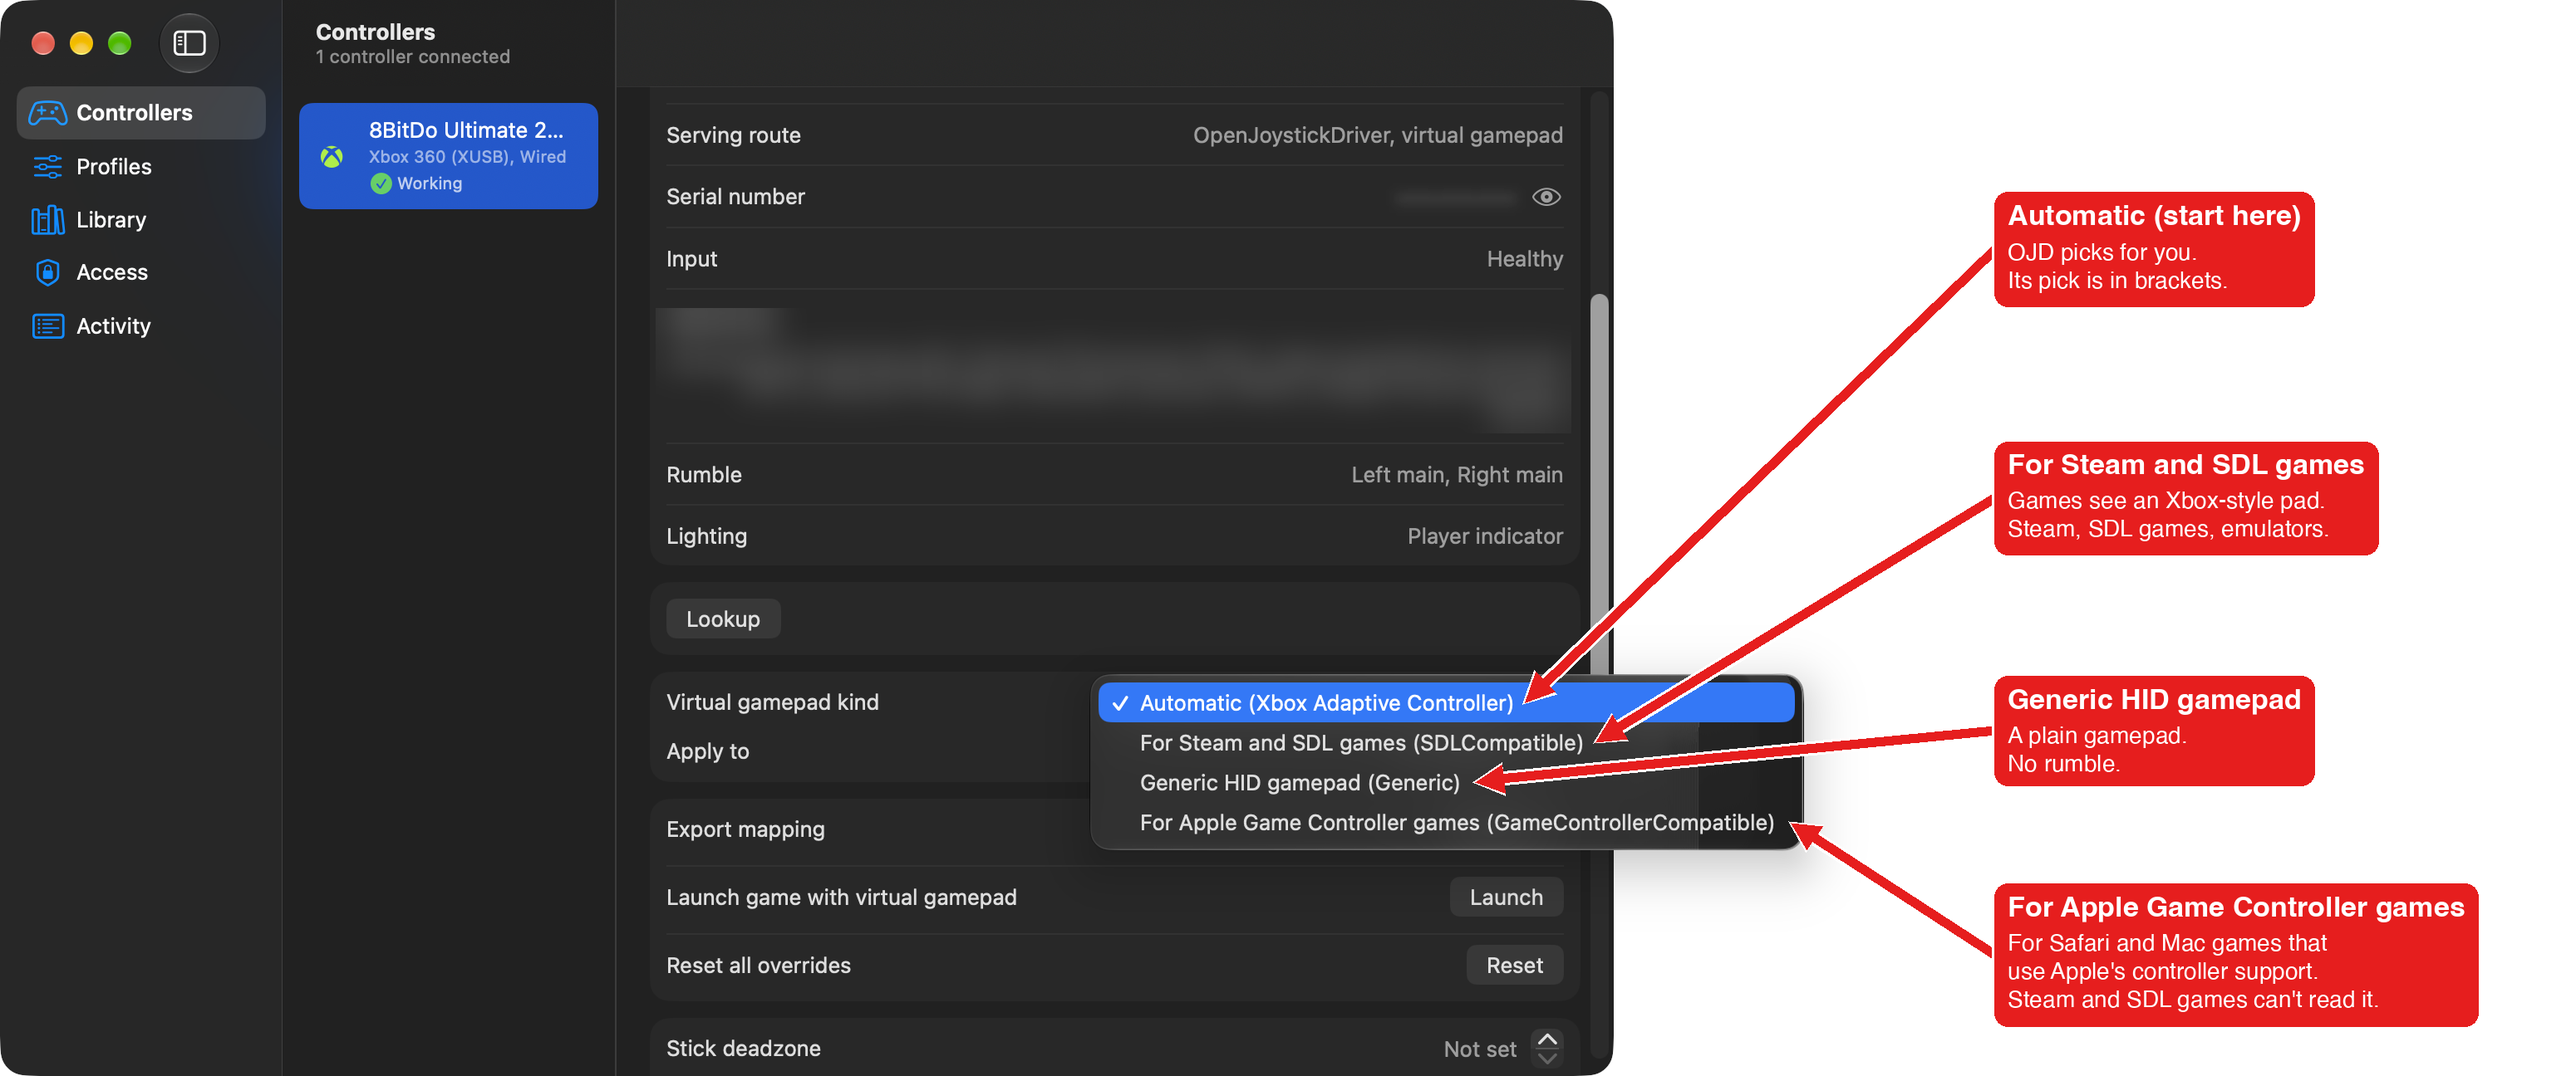
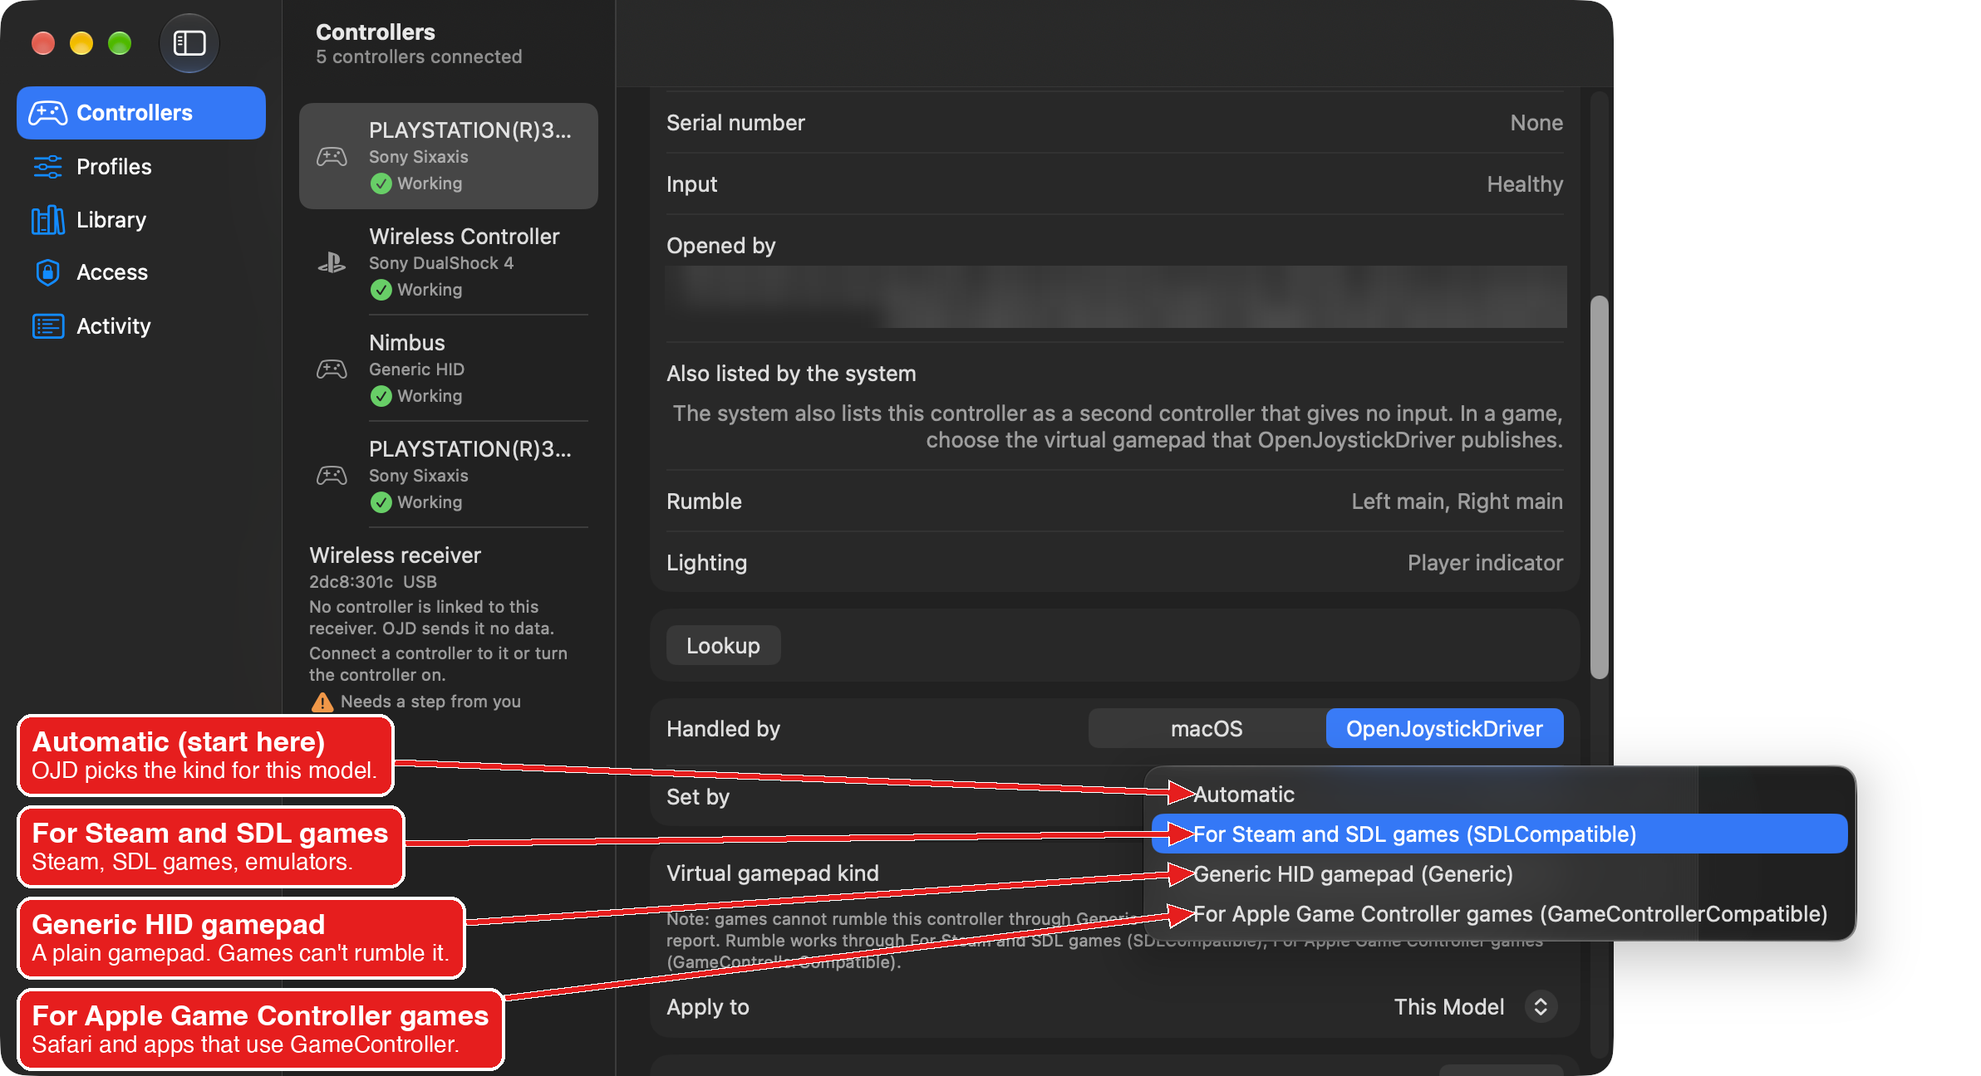
build(shots): capture an open pop-up menu and redraw the virtual gamepad kind picture

diff --git a/Scripts/GUI/ax.js b/Scripts/GUI/ax.js
@@ -224,13 +224,18 @@ function pressPath(start, ids) {
 	}
 }
 
-function sidebar(app) {
+// Column 0 is the sidebar; column 1 is the list of the selected area, such as the controllers.
+function columnRows(app, column) {
 	const split = children(find(app, "main"), "AXSplitGroup")[0];
-	const group = children(split, "AXGroup")[0];
+	const group = children(split, "AXGroup")[column];
 	const scroll = group && children(group, "AXScrollArea")[0];
 	const outline = scroll && children(scroll, "AXOutline")[0];
-	if (!outline) throw new Error("the main window has no sidebar outline");
+	if (!outline) throw new Error("the main window has no list in column " + column);
 	return items(outline, "AXRows");
+}
+
+function sidebar(app) {
+	return columnRows(app, 0);
 }
 
 function rowLabel(row) {
@@ -313,6 +318,20 @@ function run(argv) {
 			delay(SETTLE_SECONDS);
 			return "";
 		}
+		case "list-rows":
+			return columnRows(app, 1).map(rowLabel).join("\n");
+		case "select-row": {
+			// Two controllers of one model share a label; the optional count picks the nth (from 1).
+			const row = columnRows(app, 1).filter((candidate) => rowLabel(candidate) === argument)[
+				Number(rest[0] || 1) - 1
+			];
+			if (!row) throw new Error("no list row named " + argument);
+			const code = $.AXUIElementSetAttributeValue(row, "AXSelected", AX_TRUE);
+			if (code !== 0) throw new Error("selecting " + argument + " failed with AXError " + code);
+			waitFor(() => attribute(row, "AXSelected") === true, "list row " + argument + " did not become selected");
+			delay(SETTLE_SECONDS);
+			return "";
+		}
 		case "wait-main-window":
 			waitFor(() => windows(app).some(isMain), "main window did not appear");
 			return "";
@@ -389,6 +408,24 @@ function run(argv) {
 			if (!target) throw new Error("the focused window has no element labeled " + argument);
 			press(target);
 			delay(SETTLE_SECONDS);
+			return "";
+		}
+		case "scroll": {
+			// 0 is the top of the detail pane and 1 its bottom.
+			const bar = descendants(focusedWindow(app)).find((element) => shown(element, "AXRole") === "AXScrollBar");
+			if (!bar) throw new Error("the focused window has no scroll bar");
+			const code = $.AXUIElementSetAttributeValue(bar, "AXValue", $.NSNumber.numberWithDouble(Number(argument)));
+			if (code !== 0) throw new Error("scrolling to " + argument + " failed with AXError " + code);
+			delay(SETTLE_SECONDS);
+			return "";
+		}
+		case "open-popup": {
+			// A pop-up button shows its chosen item as its value, so the value names the button.
+			const popup = descendants(focusedWindow(app)).find(
+				(element) => shown(element, "AXRole") === "AXPopUpButton" && shown(element, "AXValue") === argument,
+			);
+			if (!popup) throw new Error("the focused window has no pop-up button showing " + argument);
+			press(popup);
 			return "";
 		}
 		case "press-escape": {

diff --git a/Scripts/GUI/capture.py b/Scripts/GUI/capture.py
@@ -80,6 +80,26 @@ def parse_args(argv: list[str]) -> argparse.Namespace:
         action="store_true",
         help="every sidebar area, settings pane and menu",
     )
+    choice.add_argument(
+        "--popup",
+        metavar="VALUE",
+        help=(
+            "the Controllers window with the pop-up button that shows VALUE open, "
+            "saved as main-popup.png"
+        ),
+    )
+    parser.add_argument(
+        "--row",
+        metavar="LABEL",
+        help="with --popup, the controller row to select first, such as 'Sony Sixaxis, Working'",
+    )
+    parser.add_argument(
+        "--scroll",
+        type=float,
+        default=0.0,
+        metavar="FRACTION",
+        help="with --popup, how far down to scroll the details, from 0 (top) to 1 (bottom)",
+    )
     parser.add_argument(
         "--ready-timeout",
         type=float,
@@ -101,6 +121,10 @@ def parse_args(argv: list[str]) -> argparse.Namespace:
         ),
     )
     args = parser.parse_args(argv)
+    if (args.row is not None or args.scroll) and args.popup is None:
+        parser.error("--row and --scroll work only with --popup")
+    if not 0 <= args.scroll <= 1:
+        parser.error("--scroll must be between 0 and 1")
     for option, value in (
         ("--ready-timeout", args.ready_timeout),
         ("--front-timeout", args.front_timeout),
@@ -492,6 +516,23 @@ def shoot_menu(
     close_menu(pid, clock, sleep)
 
 
+def shoot_popup(args: argparse.Namespace, pid: int, destination: Path) -> None:
+    gui("select-sidebar", "Controllers")
+    if args.row is not None:
+        gui("select-row", args.row)
+    window = bring_forward(pid, "main", args.front_timeout)
+    gui("scroll", str(args.scroll))
+    try:
+        gui("open-popup", args.popup)
+        wait_for_menu(pid, 1)
+        # screencapture -l draws the open menu with the window it belongs to.
+        capture_window(window, destination)
+        print(destination)
+    finally:
+        close_menu(pid)
+        gui("scroll", "0")
+
+
 def make_folder() -> Path:
     root = PROJECT_DIR / ".ojd-shots"
     stamp = datetime.now().strftime("%Y%m%d-%H%M%S")
@@ -530,7 +571,7 @@ def capture(args: argparse.Namespace) -> int:
         else ()
     )
     menus = args.all or args.menus
-    if areas or panes:
+    if areas or panes or args.popup is not None:
         require_english_ui()
     main_was_open, settings_tab = read_state()
     folder = make_folder()
@@ -552,6 +593,8 @@ def capture(args: argparse.Namespace) -> int:
                 folder / f"settings-{pane.lower()}.png",
                 args.front_timeout,
             )
+        if args.popup is not None:
+            shoot_popup(args, pid, folder / "main-popup.png")
         if menus:
             for target in menu_targets(gui("menu-ids").split("\n")):
                 shoot_menu(pid, target, folder / f"{target.name}.png")

diff --git a/Scripts/GUI/step_pictures.py b/Scripts/GUI/step_pictures.py
@@ -54,6 +54,37 @@ PICTURES: tuple[StepPicture, ...] = (
         masks=(Box(800, 835, 1886, 936),),
     ),
     StepPicture(
+        "virtual-gamepad-kind",
+        "main-popup.png",
+        (
+            Callout(
+                (1440, 956),
+                (20, 860),
+                "Automatic (start here)",
+                ("OJD picks the kind for this model.",),
+            ),
+            Callout(
+                (1440, 1004),
+                (20, 970),
+                "For Steam and SDL games",
+                ("Steam, SDL games, emulators.",),
+            ),
+            Callout(
+                (1440, 1051),
+                (20, 1080),
+                "Generic HID gamepad",
+                ("A plain gamepad. Games can't rumble it.",),
+            ),
+            Callout(
+                (1440, 1099),
+                (20, 1190),
+                "For Apple Game Controller games",
+                ("Safari and apps that use GameController.",),
+            ),
+        ),
+        masks=(Box(800, 320, 1886, 395),),
+    ),
+    StepPicture(
         "menu-bar-overview",
         "menu-status-item.png",
         (

diff --git a/Tests/RepositoryScripts/test_gui_capture.py b/Tests/RepositoryScripts/test_gui_capture.py
@@ -48,6 +48,26 @@ class GuiCaptureTests(unittest.TestCase):
             with self.subTest(argv=argv), self.assertRaises(SystemExit):
                 capture.parse_args(argv)
 
+    def test_row_and_scroll_need_a_popup(self) -> None:
+        # Arrange
+        popup = ["--popup", "Generic HID gamepad (Generic)"]
+
+        # Act
+        args = capture.parse_args([*popup, "--row", "Pad, Working", "--scroll", "0.4"])
+
+        # Assert
+        self.assertEqual(
+            (args.popup, args.row, args.scroll), (popup[1], "Pad, Working", 0.4)
+        )
+        for argv in (
+            ["--all", "--row", "Pad, Working"],
+            ["--all", "--scroll", "0.4"],
+            [*popup, "--scroll", "1.5"],
+            [*popup, "--area", "Library"],
+        ):
+            with self.subTest(argv=argv), self.assertRaises(SystemExit):
+                capture.parse_args(argv)
+
     def test_missing_app_is_reported(self) -> None:
         with (
             patch.object(capture, "APP", capture.PROJECT_DIR / "absent.app"),

diff --git a/docs/development/building-from-source.md b/docs/development/building-from-source.md
@@ -91,7 +91,7 @@ Commit messages use Conventional Commits: `type(scope): subject`, with a lowerca
 
 ## Screenshots
 
-`just shots-capture` takes pictures of the installed app's windows and menus. Options: `--all`, `--area <name>`, `--settings-pane <name>`, `--menus`. It writes one PNG per sidebar area, Settings tab, and menu to the git-ignored `.ojd-shots/<timestamp>/` (a number is added for runs in the same second), without a shutter sound, at the screen's full sharpness (2x on Retina). Commit a capture only when the README or wiki uses it.
+`just shots-capture` takes pictures of the installed app's windows and menus. Options: `--all`, `--area <name>`, `--settings-pane <name>`, `--menus`, and `--popup <value>`. `--popup` opens the Controllers pop-up button that shows the value and saves `main-popup.png` with the open menu in it. Add `--row <label>` to pick a controller first and `--scroll <0 to 1>` to scroll the details down to the button, as in `just shots-capture --popup "Generic HID gamepad (Generic)" --row "Sony Sixaxis, Working" --scroll 0.35`. It writes one PNG per sidebar area, Settings tab, and menu to the git-ignored `.ojd-shots/<timestamp>/` (a number is added for runs in the same second), without a shutter sound, at the screen's full sharpness (2x on Retina). Commit a capture only when the README or wiki uses it.
 
 Each PNG holds one window alone on a see-through background (screencapture -l), with no shadow, desktop, or other apps, so it shows nothing private. Translucent materials such as Liquid Glass show no backdrop.
 
